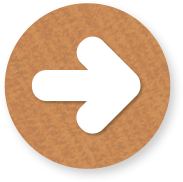
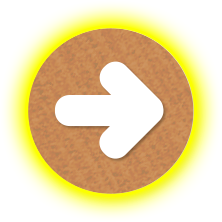
수정

diff --git a/wj_smartall_kids/COMM/JS/COMMON.JS b/wj_smartall_kids/COMM/JS/COMMON.JS
@@ -1,7 +1,7 @@
 //  변수 정리
 
 // 페이지 필요 정보
-var mainPageNum = 0;
+//var mainPageNum = 0;
 var sectionCounter = 1;
 var pageWrapNum = 0; // section의 첫 페이지
 var complatePage = 0; //완료페이지
@@ -36,11 +36,11 @@ const redo_history = [];
 const ImgArr = [];
 
 var introBgm = new Audio('../../../COMM/MP3/INTRO.mp3'); // 인트로
-var likeBgm = new Audio('../../../COMM/MP3/LIKEIT.mp3'); // 좋아요
+// var likeBgm = new Audio('../../../COMM/MP3/LIKEIT.mp3'); // 좋아요
 var goodjob2Bgm = new Audio('../../../COMM/MP3/LASTGOODJOB.mp3'); // 마지막 잘했어요
 var infoDropBgm = new Audio('../../../COMM/MP3/INFO_DROP.mp3'); // 드래그앤드랍 인포
 var infoColorBgm = new Audio('../../../COMM/MP3/INFO_COLOR.mp3'); // 색칠 인포
-var goodjobBgm = new Audio('../../../COMM/MP3/GOODJOB.mp3'); // 잘했어요
+// var goodjobBgm = new Audio('../../../COMM/MP3/GOODJOB.mp3'); // 잘했어요
 var fanfareBgm = new Audio('../../../COMM/MP3/FANFARE.mp3'); // 빵빠레
 var dropBgm3 = new Audio('../../../COMM/MP3/DROPING.mp3'); // 드래그앤드랍 시
 var doneBgm3 = new Audio('../../../COMM/MP3/DONE.mp3'); // 완료
@@ -56,7 +56,7 @@ const binBtn = document.querySelector('.bin-btn'); // 휴지통 아이콘
 const nextBtn = document.querySelector('.next-btn'); // 다음으로 가기 버튼
 const endBtn = document.querySelector('.done-btn'); // 완료 버튼
 
-const randomColor = ['random', '#ff0000', '#ff8c00', '#ffff00', '#008000', '#0000ff', '#800080'];
+const randomColor = ['random', '#ff0000', '#ff8c00', '#fdda24', '#008000', '#0000ff', '#800080'];
 let selectColor = null;
 // 잘했어요 음원 리스트
 const goodjobBgmList = [
@@ -87,9 +87,8 @@ function init() {
             function () {
                 this.currentTime = 0;
                 console.log('가이드 삭제');
-                $('#colorGuide').remove();
-                $('.color-palette').removeClass('glory');
-                onResume();
+                // $('#colorGuide').remove();
+                // $('.color-palette').removeClass('glory');
             },
             false
         );
@@ -271,10 +270,10 @@ function reset() {
 // 캔버스 위 그림 이미지 로드 함수
 function itemImageLoad() {
     let itemImageHtml = $('.section' + sectionCounter + ' #itemImg');
-    console.log(itemImageHtml);
-    console.log('mainPageNum', mainPageNum);
-    console.log('pageWrapNum', pageWrapNum);
-    console.log(wordData.itemUrls[pageWrapNum].mainItem);
+    // console.log(itemImageHtml);
+    // console.log('mainPageNum', mainPageNum);
+    // console.log('pageWrapNum', pageWrapNum);
+    // console.log(wordData.itemUrls[pageWrapNum].mainItem);
     $(itemImageHtml).attr('src', wordData.itemUrls[pageWrapNum].mainItem);
     // function cancelEvent(event) {
     //     if (event.preventDefault) {
@@ -334,8 +333,7 @@ function wordTest() {
             function () {
                 this.currentTime = 0;
                 console.log('가이드 삭제');
-                $('#colorGuide').remove();
-                $('.color-palette').removeClass('glory');
+               
             },
             false
         );
@@ -375,8 +373,8 @@ function wordTest() {
         e.preventDefault();
         if (selectColor == null) return;
         ctx.beginPath();
-        $('#colorGuide').remove();
-        $('.color-palette').removeClass('glory');
+        // $('#colorGuide').remove();
+        // $('.color-palette').removeClass('glory');
         console.log('실행', cStep);
         cStep++;
         if (cStep < cPushArray.length) {
@@ -427,7 +425,8 @@ function wordTest() {
                 // ctx.clearRect(0, canvas.width, canvas.height);
             };
             binBtn.classList.add('active');
-        }
+        }return;
+    
         // else {
         //     binBtn.classList.remove('active');
         // }
@@ -469,6 +468,8 @@ function wordTest() {
         // colorOption.forEach((color) => color.addEventListener('click', oncolorChange));
         $(document).on('click', '.color-option', (e) => {
             oncolorChange(e);
+            $('#colorGuide').remove();
+            $('.color-palette').removeClass('glory');
         });
     }
     colorOption();
@@ -774,7 +775,7 @@ function playAllCard() {
 }
 
 // 완료 함수
-$(document).on('click', '.done-btn', complate);
+$(document).on('click', '.done-btn.active', complate);
 function complate(event) {
     console.log('학습 완료');
 
@@ -928,6 +929,7 @@ function guideClose($this) {
 // 시작
 $(function () {
     init();
+    onResume();
     $intro.show();
     setTimeout(function () {
         $intro.fadeOut('slow');

diff --git a/wj_smartall_kids/COMM/CSS/STYLE.CSS b/wj_smartall_kids/COMM/CSS/STYLE.CSS
@@ -114,7 +114,7 @@
     background-size: 100% 100%;
     position: fixed;
 }
-.next-btn.active::after {
+/* .next-btn.active::after {
     content: '';
     position: absolute;
     background: url('../IMG/BTN_DECO_YL.png') no-repeat;
@@ -123,10 +123,10 @@
     height: 132px;
     top: -13px;
     left: -13px;
-    /* -webkit-animation: blink 0.5s ease-in-out infinite alternate;
-    -moz-animation: blink 0.5s ease-in-out infinite alternate; */
-    animation: blink 0.7s ease-in-out infinite alternate;
-}
+    -webkit-animation: blink 0.5s ease-in-out infinite alternate;
+    -moz-animation: blink 0.5s ease-in-out infinite alternate;
+    animation: blinkAndScale 0.7s ease-in-out infinite alternate;
+} */
 @keyframes blink {
     0% {
         opacity: 0;
@@ -138,11 +138,13 @@
 
 .done-btn {
     /* display: none; */
+    background: url('../IMG/BTN_DONE_UN.png') no-repeat;
+    background-size: 100% 100%;
     position: absolute;
     width: 110px;
+    height: 110px;
     right: 34px;
     bottom: 14px;
-    background: none;
     border: none;
     color: #fff;
     border: none;
@@ -152,9 +154,18 @@
     opacity: 1;
     z-index: 1;
 }
+
+.done-btn.active {
+    background: url('../IMG/BTN_DONE_EN.png') no-repeat;
+    background-size: 100% 100%;
+    position: fixed;
+}
+
 .next-btn.active,
 .done-btn.active {
     opacity: 1;
+    animation: blinkAndScale 0.7s ease-in-out infinite alternate;
+    /* animation: blink 0.7s ease-in-out infinite alternate; */
 }
 
 /* 버튼 클릭시 파란 박스 안보이게 */
@@ -171,7 +182,7 @@
     left: 0;
 }
 
-.done-btn.active::after {
+/* .done-btn.active::after {
     content: '';
     position: absolute;
     left: -14px;
@@ -181,7 +192,7 @@
     background: url(../IMG/BTN_DECO_RD.png) no-repeat;
     background-size: 100% 100%;
     animation: blink 0.7s ease-in-out infinite alternate;
-}
+} */
 
 /* 나가기 팝업 */
 .pop-wrapBg {
@@ -793,6 +804,17 @@ canvas {
     }
     100% {
         opacity: 0;
+    }
+}
+
+@keyframes blinkAndScale {
+    0% {
+        opacity: 1;
+        transform: scale(0.8);
+    }
+    100% {
+        opacity: 1;
+        transform: scale(1.2);
     }
 }
 

diff --git a/wj_smartall_kids/gt/1/1_7/INDEX.html b/wj_smartall_kids/gt/1/1_7/INDEX.html
@@ -85,9 +85,7 @@
                     <!-- //section2 -->
 
                     <section class="section section3">
-                        <button class="done-btn">
-                            <img src="../../../COMM/IMG/BTN_DONE.png" alt="" />
-                        </button>
+                        <button class="done-btn"></button>
                     </section>
                 </div>
             </div>
@@ -121,4 +119,15 @@
         <script src="../../../COMM/JS/COMMON.JS"></script>
         <script src="../../../COMM/JS/TOUCH.JS"></script>
     </body>
+
+    <style>
+        .section1 .item-img {
+            width: 29%;
+            height: 37%;
+            position: absolute;
+            top: 7%;
+            left: 50%;
+            transform: translateX(-50%);
+        }
+    </style>
 </html>

diff --git a/wj_smartall_kids/gt/1/1_8/INDEX.html b/wj_smartall_kids/gt/1/1_8/INDEX.html
@@ -85,9 +85,7 @@
                     <!-- //section2 -->
 
                     <section class="section section3">
-                        <button class="done-btn">
-                            <img src="../../../COMM/IMG/BTN_DONE.png" alt="" />
-                        </button>
+                        <button class="done-btn"></button>
                     </section>
                 </div>
             </div>
@@ -121,4 +119,15 @@
         <script src="../../../COMM/JS/COMMON.JS"></script>
         <script src="../../../COMM/JS/TOUCH.JS"></script>
     </body>
+
+    <style>
+        .section1 .item-img {
+            width: 29%;
+            height: 37%;
+            position: absolute;
+            top: 7%;
+            left: 50%;
+            transform: translateX(-50%);
+        }
+    </style>
 </html>

diff --git a/wj_smartall_kids/gt/1/1_1/INDEX.HTML b/wj_smartall_kids/gt/1/1_1/INDEX.HTML
@@ -112,9 +112,7 @@
                     <!-- //section2 -->
 
                     <section class="section section3">
-                        <button class="done-btn">
-                            <img src="../../../COMM/IMG/BTN_DONE.png" alt="" />
-                        </button>
+                        <button class="done-btn"></button>
                     </section>
                 </div>
             </div>

diff --git a/wj_smartall_kids/gt/1/1_10/INDEX.html b/wj_smartall_kids/gt/1/1_10/INDEX.html
@@ -85,9 +85,7 @@
                     <!-- //section2 -->
 
                     <section class="section section3">
-                        <button class="done-btn">
-                            <img src="../../../COMM/IMG/BTN_DONE.png" alt="" />
-                        </button>
+                        <button class="done-btn"></button>
                     </section>
                 </div>
             </div>

diff --git a/wj_smartall_kids/gt/1/1_11/INDEX.html b/wj_smartall_kids/gt/1/1_11/INDEX.html
@@ -85,9 +85,7 @@
                     <!-- //section2 -->
 
                     <section class="section section3">
-                        <button class="done-btn">
-                            <img src="../../../COMM/IMG/BTN_DONE.png" alt="" />
-                        </button>
+                        <button class="done-btn"></button>
                     </section>
                 </div>
             </div>

diff --git a/wj_smartall_kids/gt/1/1_12/INDEX.html b/wj_smartall_kids/gt/1/1_12/INDEX.html
@@ -85,9 +85,7 @@
                     <!-- //section2 -->
 
                     <section class="section section3">
-                        <button class="done-btn">
-                            <img src="../../../COMM/IMG/BTN_DONE.png" alt="" />
-                        </button>
+                        <button class="done-btn"></button>
                     </section>
                 </div>
             </div>

diff --git a/wj_smartall_kids/gt/1/1_2/INDEX.HTML b/wj_smartall_kids/gt/1/1_2/INDEX.HTML
@@ -85,9 +85,7 @@
                     <!-- //section2 -->
 
                     <section class="section section3">
-                        <button class="done-btn">
-                            <img src="../../../COMM/IMG/BTN_DONE.png" alt="" />
-                        </button>
+                        <button class="done-btn"></button>
                     </section>
                 </div>
             </div>

diff --git a/wj_smartall_kids/gt/1/1_3/INDEX.html b/wj_smartall_kids/gt/1/1_3/INDEX.html
@@ -85,9 +85,7 @@
                     <!-- //section2 -->
 
                     <section class="section section3">
-                        <button class="done-btn">
-                            <img src="../../../COMM/IMG/BTN_DONE.png" alt="" />
-                        </button>
+                        <button class="done-btn"></button>
                     </section>
                 </div>
             </div>

diff --git a/wj_smartall_kids/gt/1/1_4/INDEX.html b/wj_smartall_kids/gt/1/1_4/INDEX.html
@@ -85,9 +85,7 @@
                     <!-- //section2 -->
 
                     <section class="section section3">
-                        <button class="done-btn">
-                            <img src="../../../COMM/IMG/BTN_DONE.png" alt="" />
-                        </button>
+                        <button class="done-btn"></button>
                     </section>
                 </div>
             </div>

diff --git a/wj_smartall_kids/gt/1/1_5/INDEX.html b/wj_smartall_kids/gt/1/1_5/INDEX.html
@@ -85,9 +85,7 @@
                     <!-- //section2 -->
 
                     <section class="section section3">
-                        <button class="done-btn">
-                            <img src="../../../COMM/IMG/BTN_DONE.png" alt="" />
-                        </button>
+                        <button class="done-btn"></button>
                     </section>
                 </div>
             </div>
